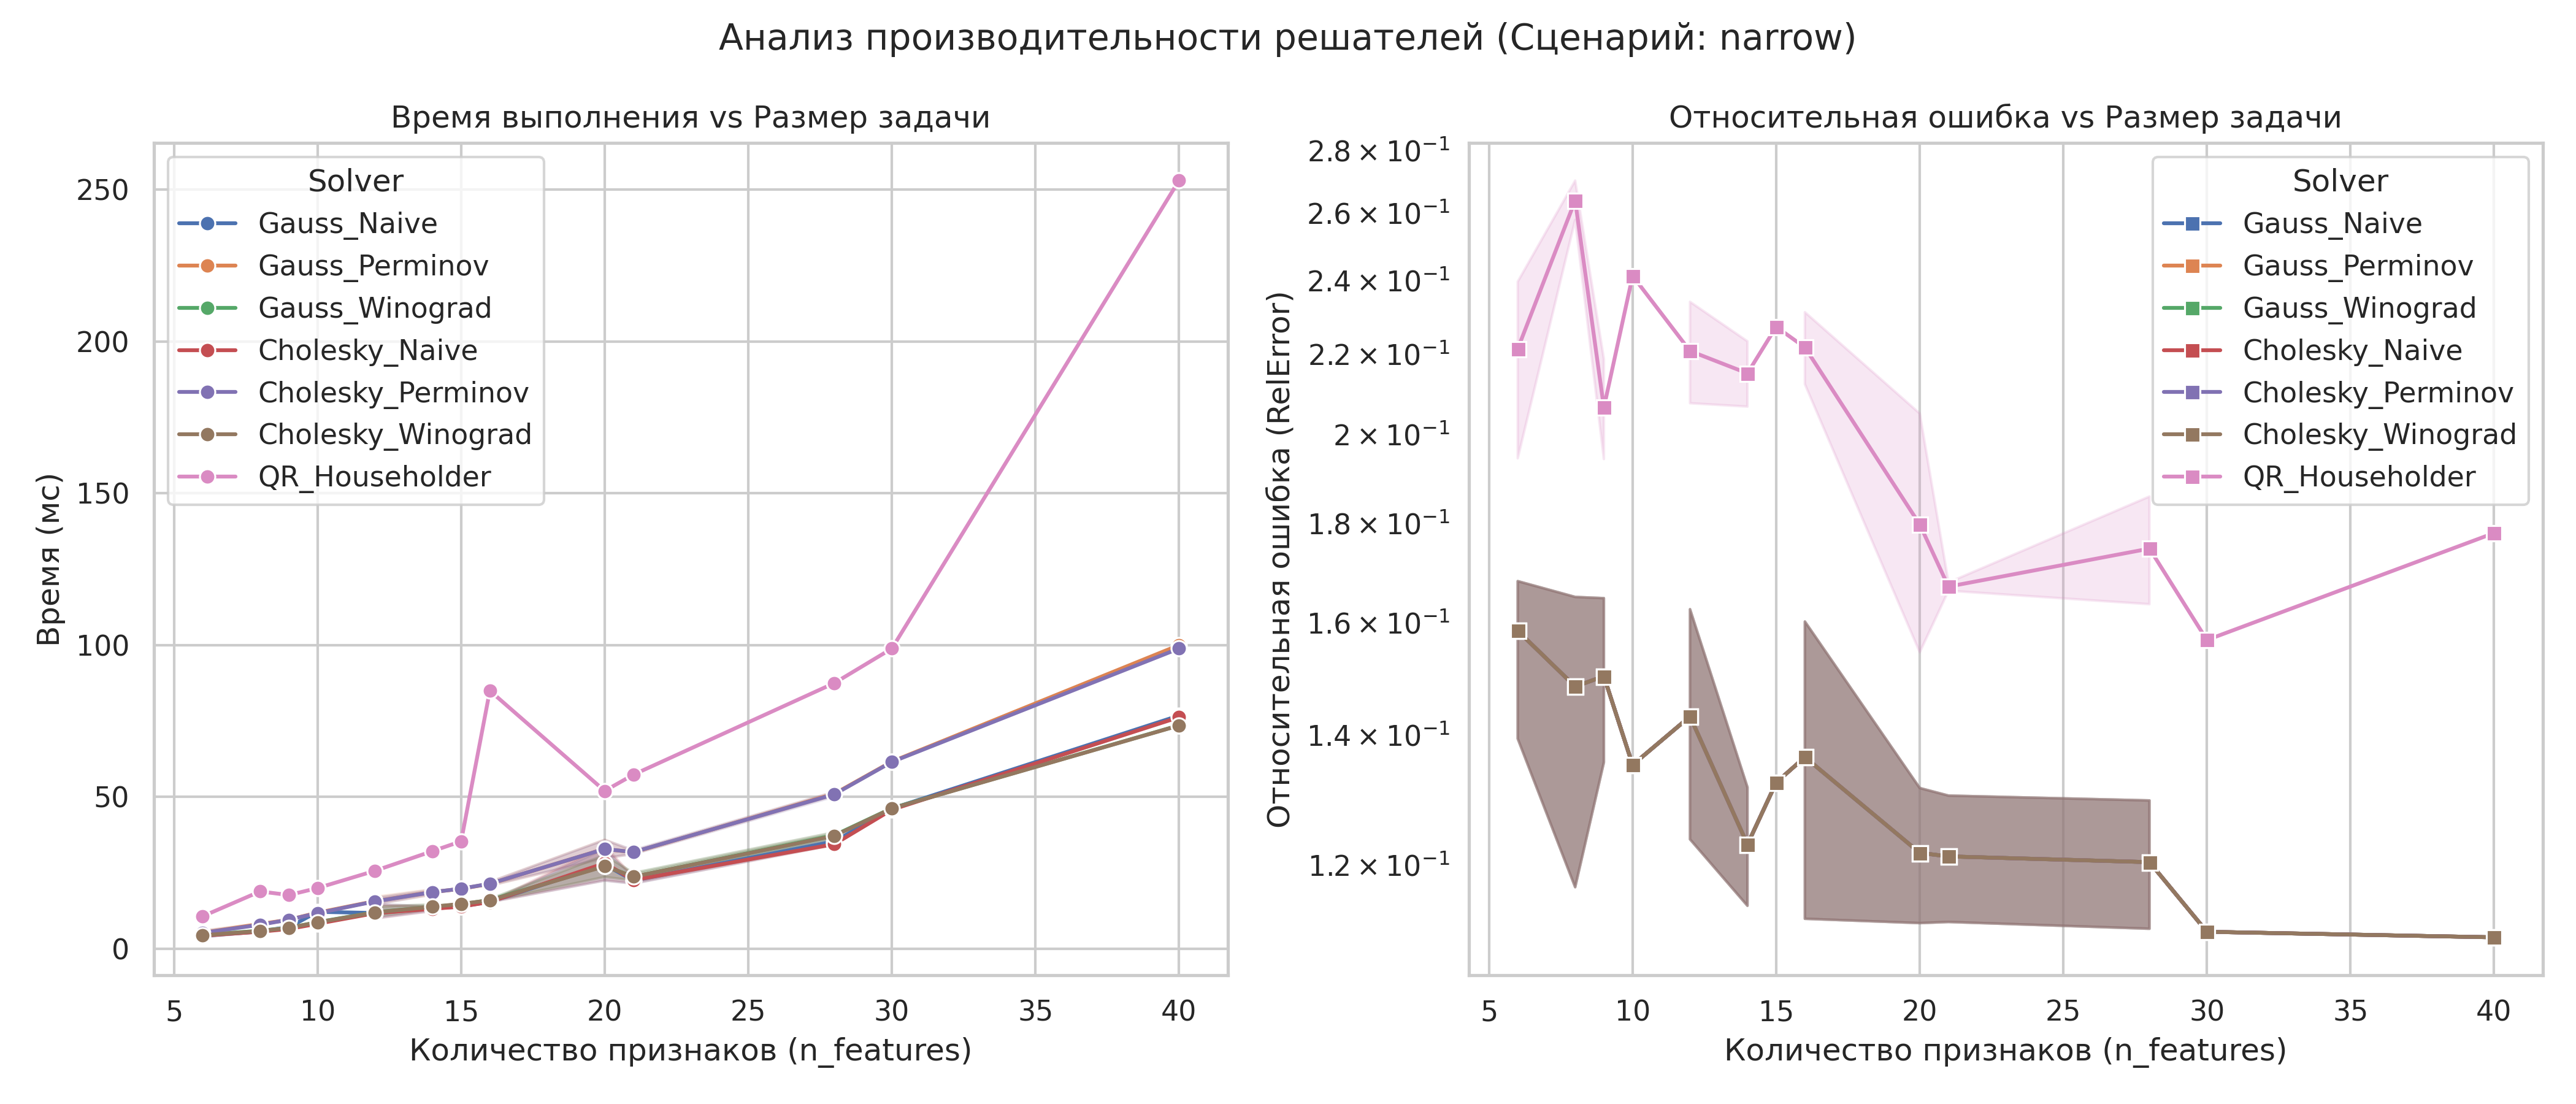
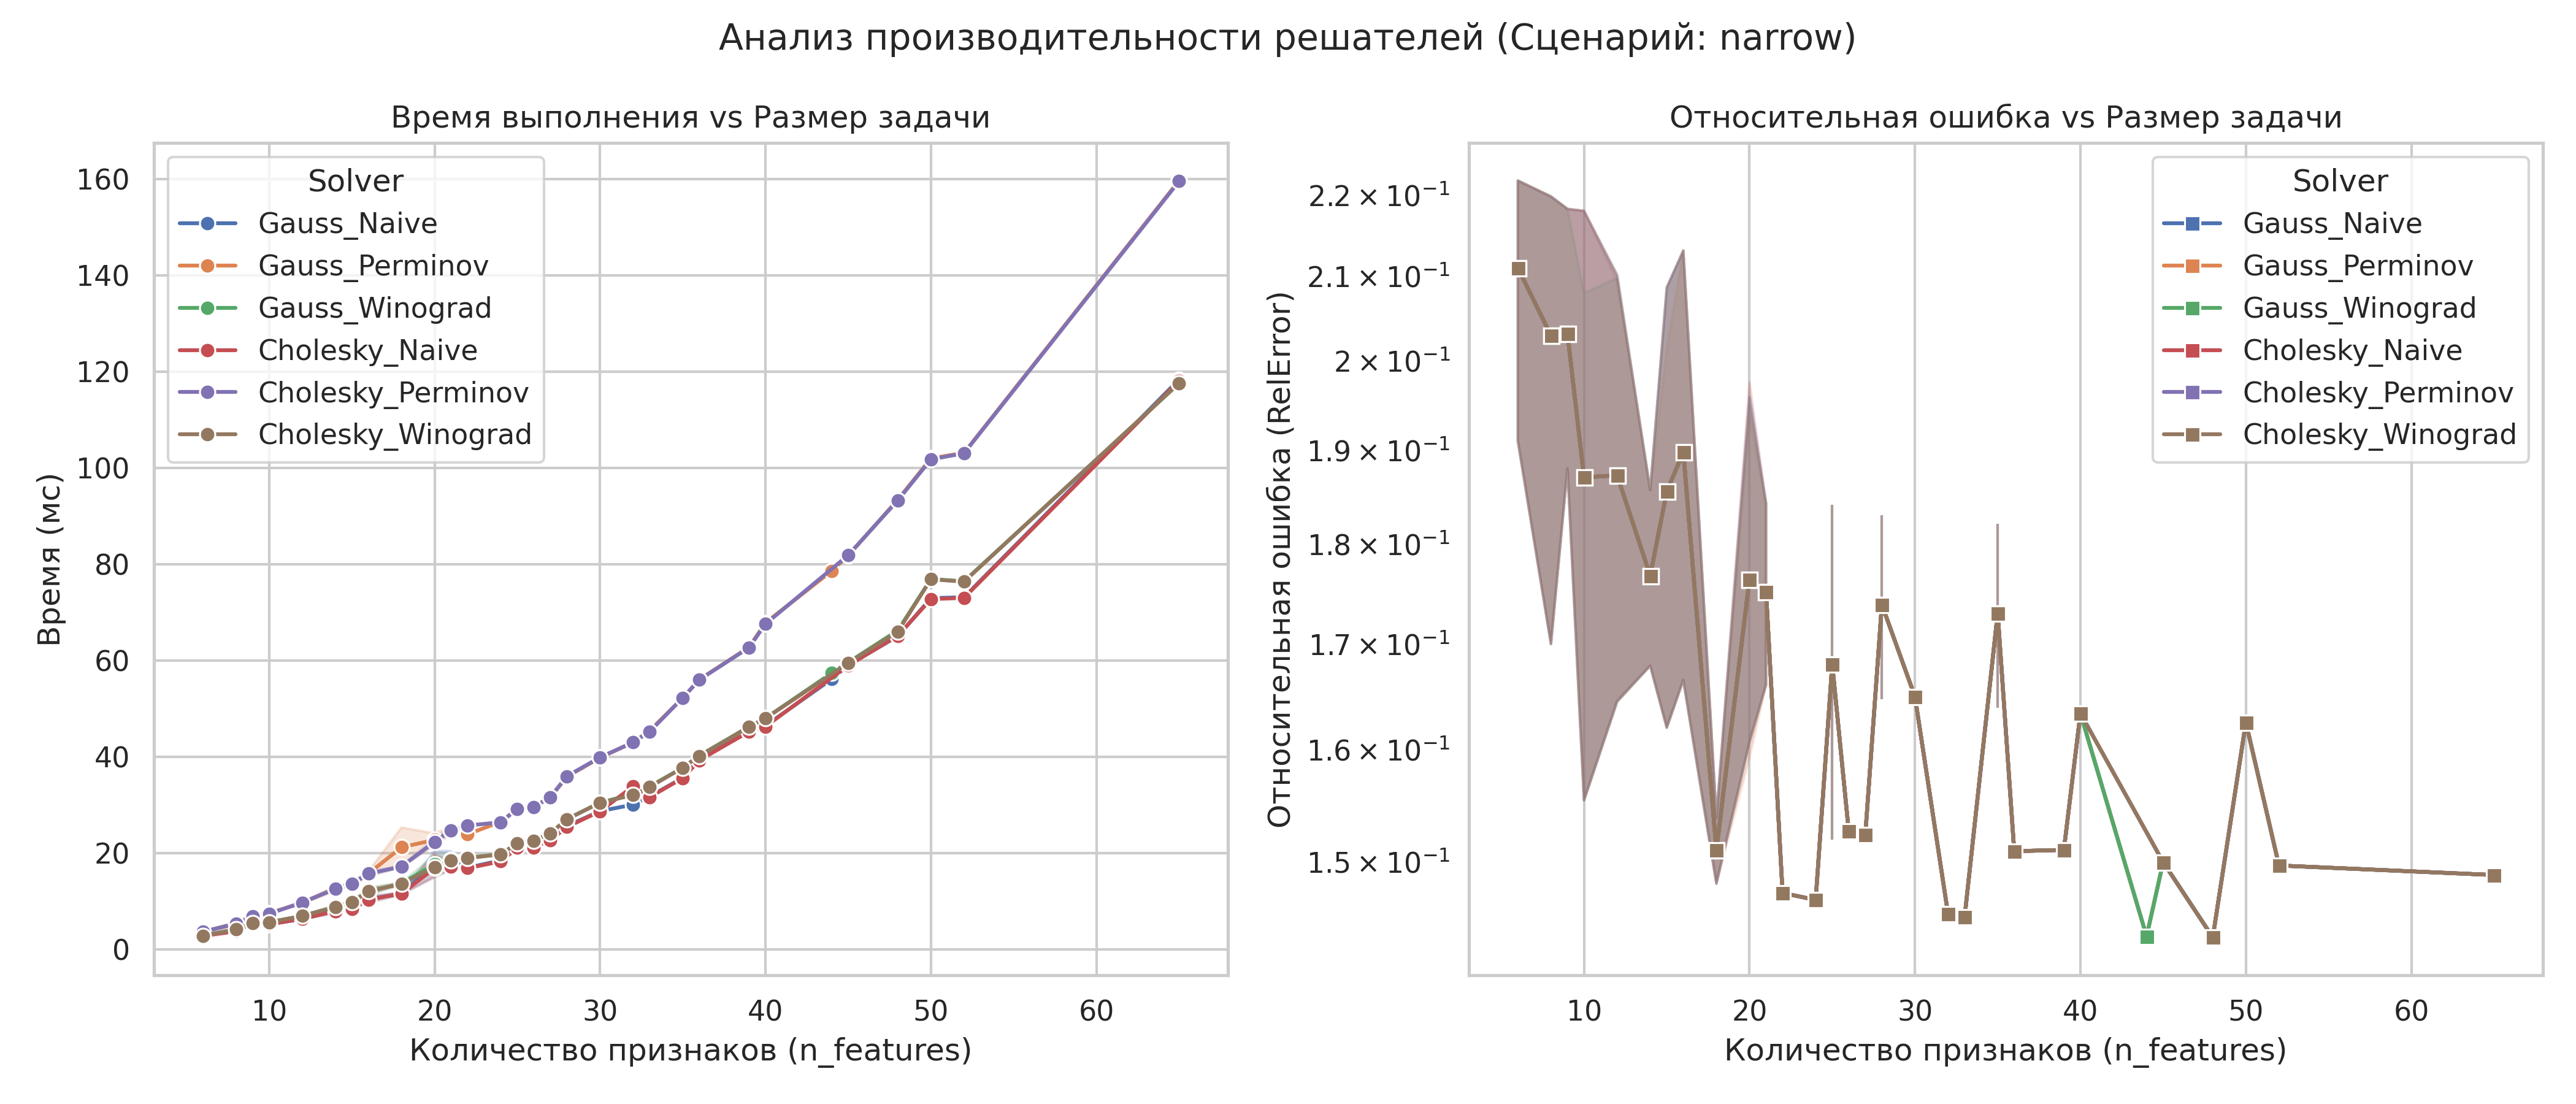
7

diff --git a/src/dpd/dpd_riscv.c b/src/dpd/dpd_riscv.c
@@ -12,7 +12,7 @@
 #endif
 
 // =====================================================================
-// ЯДРА УМНОЖЕНИЯ
+// ЯДРА УМНОЖЕНИЯ (Остаются без изменений, работают на уровне блока)
 // =====================================================================
 
 void matmul_naive(int n, int m, int p, double complex *A, double complex *B, double complex *C, double complex *B_T) {
@@ -178,64 +178,133 @@ void cholesky_solve_inplace(int n, double complex *Ah_A, double complex *Ah_y, d
 }
 
 // =====================================================================
-// EXPORT API (7 РЕШАТЕЛЕЙ)
+// EXPORT API (МОДЕРНИЗИРОВАННЫЙ БЛОЧНЫЙ ТАЙЛИНГ)
 // =====================================================================
 
-#define PREP \
-    for(int i=0; i<n_s; i++) { \
+// Вспомогательный макрос локальной предобработки текущего блока
+#define PROCESS_BLOCK_PREP(b_start, curr_bs) \
+    for(int i=0; i<curr_bs; i++) { \
         _Pragma("GCC ivdep") \
-        for(int j=0; j<n_f; j++) Ah[IDX(j, i, n_s)] = conj(A[IDX(i, j, n_f)]); \
+        for(int j=0; j<n_f; j++) Ah[IDX(j, i, curr_bs)] = conj(A[IDX((b_start) + i, j, n_f)]); \
     } \
-    memset(Ah_y, 0, n_f * sizeof(double complex)); \
     for(int i=0; i<n_f; i++) { \
+        double complex sum_y = 0; \
         _Pragma("GCC ivdep") \
         _Pragma("GCC unroll 4") \
-        for(int j=0; j<n_s; j++) Ah_y[i] += Ah[IDX(i, j, n_s)] * y[j]; \
+        for(int j=0; j<curr_bs; j++) sum_y += Ah[IDX(i, j, curr_bs)] * y[(b_start) + j]; \
+        Ah_y[i] += sum_y; \
     }
 
-EXPORT void solve_gauss_naive(int n_s, int n_f, double complex *A, double complex *y, double reg, double complex *w, double complex *Ah, double complex *Ah_A, double complex *Ah_y, double complex *M, double complex *BT) {
-    PREP 
-    matmul_naive(n_f, n_s, n_f, Ah, A, Ah_A, BT); 
+EXPORT void solve_gauss_naive(int n_s, int n_f, int b_s, double complex *A, double complex *y, double reg, double complex *w, double complex *Ah, double complex *Ah_A, double complex *Ah_y, double complex *M, double complex *BT) {
+    memset(Ah_A, 0, n_f * n_f * sizeof(double complex));
+    memset(Ah_y, 0, n_f * sizeof(double complex));
+    double complex Ah_A_block[n_f * n_f];
+    
+    for (int b_start = 0; b_start < n_s; b_start += b_s) {
+        int curr_bs = (b_start + b_s > n_s) ? (n_s - b_start) : b_s;
+        PROCESS_BLOCK_PREP(b_start, curr_bs);
+        
+        matmul_naive(n_f, curr_bs, n_f, Ah, &A[IDX(b_start, 0, n_f)], Ah_A_block, BT);
+        
+        #pragma GCC ivdep
+        for (int i = 0; i < n_f * n_f; i++) Ah_A[i] += Ah_A_block[i];
+    }
     for(int i=0; i<n_f; i++) Ah_A[IDX(i, i, n_f)] += reg; 
     gauss_solve_inplace(n_f, Ah_A, Ah_y, w, M);
 }
 
-EXPORT void solve_gauss_perminov(int n_s, int n_f, double complex *A, double complex *y, double reg, double complex *w, double complex *Ah, double complex *Ah_A, double complex *Ah_y, double complex *M, double *tA, double complex *BT, double *tBT) {
-    PREP 
-    matmul_perminov(n_f, n_s, n_f, Ah, A, Ah_A, tA, BT, tBT); 
+EXPORT void solve_gauss_perminov(int n_s, int n_f, int b_s, double complex *A, double complex *y, double reg, double complex *w, double complex *Ah, double complex *Ah_A, double complex *Ah_y, double complex *M, double *tA, double complex *BT, double *tBT) {
+    memset(Ah_A, 0, n_f * n_f * sizeof(double complex));
+    memset(Ah_y, 0, n_f * sizeof(double complex));
+    double complex Ah_A_block[n_f * n_f];
+    
+    for (int b_start = 0; b_start < n_s; b_start += b_s) {
+        int curr_bs = (b_start + b_s > n_s) ? (n_s - b_start) : b_s;
+        PROCESS_BLOCK_PREP(b_start, curr_bs);
+        
+        matmul_perminov(n_f, curr_bs, n_f, Ah, &A[IDX(b_start, 0, n_f)], Ah_A_block, tA, BT, tBT);
+        
+        #pragma GCC ivdep
+        for (int i = 0; i < n_f * n_f; i++) Ah_A[i] += Ah_A_block[i];
+    }
     for(int i=0; i<n_f; i++) Ah_A[IDX(i, i, n_f)] += reg; 
     gauss_solve_inplace(n_f, Ah_A, Ah_y, w, M);
 }
 
-EXPORT void solve_gauss_winograd(int n_s, int n_f, double complex *A, double complex *y, double reg, double complex *w, double complex *Ah, double complex *Ah_A, double complex *Ah_y, double complex *M, double complex *rf, double complex *cf, double complex *BT) {
-    PREP 
-    matmul_winograd(n_f, n_s, n_f, Ah, A, Ah_A, rf, cf, BT); 
+EXPORT void solve_gauss_winograd(int n_s, int n_f, int b_s, double complex *A, double complex *y, double reg, double complex *w, double complex *Ah, double complex *Ah_A, double complex *Ah_y, double complex *M, double complex *rf, double complex *cf, double complex *BT) {
+    memset(Ah_A, 0, n_f * n_f * sizeof(double complex));
+    memset(Ah_y, 0, n_f * sizeof(double complex));
+    double complex Ah_A_block[n_f * n_f];
+    
+    for (int b_start = 0; b_start < n_s; b_start += b_s) {
+        int curr_bs = (b_start + b_s > n_s) ? (n_s - b_start) : b_s;
+        PROCESS_BLOCK_PREP(b_start, curr_bs);
+        
+        matmul_winograd(n_f, curr_bs, n_f, Ah, &A[IDX(b_start, 0, n_f)], Ah_A_block, rf, cf, BT);
+        
+        #pragma GCC ivdep
+        for (int i = 0; i < n_f * n_f; i++) Ah_A[i] += Ah_A_block[i];
+    }
     for(int i=0; i<n_f; i++) Ah_A[IDX(i, i, n_f)] += reg; 
     gauss_solve_inplace(n_f, Ah_A, Ah_y, w, M);
 }
 
-EXPORT void solve_cholesky_naive(int n_s, int n_f, double complex *A, double complex *y, double reg, double complex *w, double complex *Ah, double complex *Ah_A, double complex *Ah_y, double complex *BT) {
-    PREP 
-    matmul_naive(n_f, n_s, n_f, Ah, A, Ah_A, BT); 
+EXPORT void solve_cholesky_naive(int n_s, int n_f, int b_s, double complex *A, double complex *y, double reg, double complex *w, double complex *Ah, double complex *Ah_A, double complex *Ah_y, double complex *BT) {
+    memset(Ah_A, 0, n_f * n_f * sizeof(double complex));
+    memset(Ah_y, 0, n_f * sizeof(double complex));
+    double complex Ah_A_block[n_f * n_f];
+    
+    for (int b_start = 0; b_start < n_s; b_start += b_s) {
+        int curr_bs = (b_start + b_s > n_s) ? (n_s - b_start) : b_s;
+        PROCESS_BLOCK_PREP(b_start, curr_bs);
+        
+        matmul_naive(n_f, curr_bs, n_f, Ah, &A[IDX(b_start, 0, n_f)], Ah_A_block, BT);
+        
+        #pragma GCC ivdep
+        for (int i = 0; i < n_f * n_f; i++) Ah_A[i] += Ah_A_block[i];
+    }
     for(int i=0; i<n_f; i++) Ah_A[IDX(i, i, n_f)] += reg; 
     cholesky_solve_inplace(n_f, Ah_A, Ah_y, w);
 }
 
-EXPORT void solve_cholesky_perminov(int n_s, int n_f, double complex *A, double complex *y, double reg, double complex *w, double complex *Ah, double complex *Ah_A, double complex *Ah_y, double *tA, double complex *BT, double *tBT) {
-    PREP 
-    matmul_perminov(n_f, n_s, n_f, Ah, A, Ah_A, tA, BT, tBT); 
+EXPORT void solve_cholesky_perminov(int n_s, int n_f, int b_s, double complex *A, double complex *y, double reg, double complex *w, double complex *Ah, double complex *Ah_A, double complex *Ah_y, double *tA, double complex *BT, double *tBT) {
+    memset(Ah_A, 0, n_f * n_f * sizeof(double complex));
+    memset(Ah_y, 0, n_f * sizeof(double complex));
+    double complex Ah_A_block[n_f * n_f];
+    
+    for (int b_start = 0; b_start < n_s; b_start += b_s) {
+        int curr_bs = (b_start + b_s > n_s) ? (n_s - b_start) : b_s;
+        PROCESS_BLOCK_PREP(b_start, curr_bs);
+        
+        matmul_perminov(n_f, curr_bs, n_f, Ah, &A[IDX(b_start, 0, n_f)], Ah_A_block, tA, BT, tBT);
+        
+        #pragma GCC ivdep
+        for (int i = 0; i < n_f * n_f; i++) Ah_A[i] += Ah_A_block[i];
+    }
     for(int i=0; i<n_f; i++) Ah_A[IDX(i, i, n_f)] += reg; 
     cholesky_solve_inplace(n_f, Ah_A, Ah_y, w);
 }
 
-EXPORT void solve_cholesky_winograd(int n_s, int n_f, double complex *A, double complex *y, double reg, double complex *w, double complex *Ah, double complex *Ah_A, double complex *Ah_y, double complex *rf, double complex *cf, double complex *BT) {
-    PREP 
-    matmul_winograd(n_f, n_s, n_f, Ah, A, Ah_A, rf, cf, BT); 
+EXPORT void solve_cholesky_winograd(int n_s, int n_f, int b_s, double complex *A, double complex *y, double reg, double complex *w, double complex *Ah, double complex *Ah_A, double complex *Ah_y, double complex *rf, double complex *cf, double complex *BT) {
+    memset(Ah_A, 0, n_f * n_f * sizeof(double complex));
+    memset(Ah_y, 0, n_f * sizeof(double complex));
+    double complex Ah_A_block[n_f * n_f];
+    
+    for (int b_start = 0; b_start < n_s; b_start += b_s) {
+        int curr_bs = (b_start + b_s > n_s) ? (n_s - b_start) : b_s;
+        PROCESS_BLOCK_PREP(b_start, curr_bs);
+        
+        matmul_winograd(n_f, curr_bs, n_f, Ah, &A[IDX(b_start, 0, n_f)], Ah_A_block, rf, cf, BT);
+        
+        #pragma GCC ivdep
+        for (int i = 0; i < n_f * n_f; i++) Ah_A[i] += Ah_A_block[i];
+    }
     for(int i=0; i<n_f; i++) Ah_A[IDX(i, i, n_f)] += reg; 
     cholesky_solve_inplace(n_f, Ah_A, Ah_y, w);
 }
 
-EXPORT void solve_qr_householder(int n_s, int n_f, double complex *A, double complex *y, double reg, double complex *w, double complex *R, double complex *y_ext, double complex *v) {
+EXPORT void solve_qr_householder(int n_s, int n_f, int b_s, double complex *A, double complex *y, double reg, double complex *w, double complex *R, double complex *y_ext, double complex *v) {
+    // (b_s игнорируется, так как QR требует целостной структуры для Householder-отражений)
     memset(R, 0, (n_s + n_f) * n_f * sizeof(double complex));
     
     for(int i=0; i<n_s; i++) { 

diff --git a/src/benchmarks/svip_test.py b/src/benchmarks/svip_test.py
@@ -1,0 +1,60 @@
+import ctypes
+import numpy as np
+import time
+
+# Загрузка библиотеки
+lib = ctypes.CDLL("./libdpd_riscv.so")
+
+# Настройка типов данных для solve_gauss_winograd в качестве примера
+lib.solve_gauss_winograd.argtypes = [
+    ctypes.c_int, ctypes.c_int, ctypes.c_int,  # n_s, n_f, b_s
+    ctypes.c_void_p, ctypes.c_void_p,          # A, y
+    ctypes.c_double, ctypes.c_void_p,          # reg, w
+    ctypes.c_void_p, ctypes.c_void_p,          # Ah, Ah_A
+    ctypes.c_void_p, ctypes.c_void_p,          # Ah_y, M
+    ctypes.c_void_p, ctypes.c_void_p,          # rf, cf
+    ctypes.c_void_p                            # BT
+]
+
+# Параметры теста
+Ns = 16000
+Nf = 32
+reg = 1e-4
+
+# Генерация синтетических данных
+A = (np.random.randn(Ns, Nf) + 1j * np.random.randn(Ns, Nf)).astype(np.complex128)
+y = (np.random.randn(Ns) + 1j * np.random.randn(Ns)).astype(np.complex128)
+w = np.zeros(Nf, dtype=np.complex128)
+
+# Выделение рабочих массивов (выделяются под максимальный размер блока)
+Ah = np.zeros(Nf * Ns, dtype=np.complex128) 
+Ah_A = np.zeros((Nf, Nf), dtype=np.complex128)
+Ah_y = np.zeros(Nf, dtype=np.complex128)
+M = np.zeros((Nf, Nf + 1), dtype=np.complex128)
+rf = np.zeros(Nf, dtype=np.complex128)
+cf = np.zeros(Nf, dtype=np.complex128)
+BT = np.zeros(Nf * Ns, dtype=np.complex128)
+
+# Сетка размеров блоков
+block_sizes = [32, 64, 128, 256, 512, 1024, 2048, 4096, 8192, Ns]
+
+print(f"Размер блока Bs | Время выполнения (мс)")
+print("-" * 40)
+
+for bs in block_sizes:
+    # Разогрев кэша
+    lib.solve_gauss_winograd(Ns, Nf, bs, A.ctypes.data, y.ctypes.data, reg, w.ctypes.data,
+                             Ah.ctypes.data, Ah_A.ctypes.data, Ah_y.ctypes.data, M.ctypes.data,
+                             rf.ctypes.data, cf.ctypes.data, BT.ctypes.data)
+    
+    # Итерационный замер времени
+    iters = 20
+    t0 = time.perf_counter_ns()
+    for _ in range(iters):
+        lib.solve_gauss_winograd(Ns, Nf, bs, A.ctypes.data, y.ctypes.data, reg, w.ctypes.data,
+                                 Ah.ctypes.data, Ah_A.ctypes.data, Ah_y.ctypes.data, M.ctypes.data,
+                                 rf.ctypes.data, cf.ctypes.data, BT.ctypes.data)
+    t1 = time.perf_counter_ns()
+    
+    avg_time_ms = ((t1 - t0) / iters) / 1e6
+    print(f"{bs:15d} | {avg_time_ms:.4f}")

diff --git a/stat_anlyzer.py b/stat_anlyzer.py
@@ -91,4 +91,4 @@ def analyze_and_visualize(file_path, target_scenario='narrow'):
 
 if __name__ == "__main__":
     # Вызываем функцию для конкретного сценария (можно поменять на другой при необходимости)
-    analyze_and_visualize('risc_v_results/crossover_results.csv', target_scenario='realtime')
+    analyze_and_visualize('risc_v_results/crossover_results.csv', target_scenario='narrow')